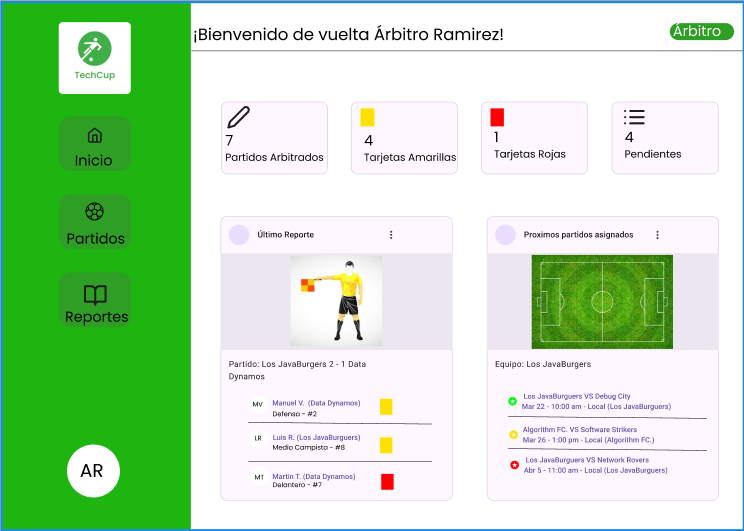
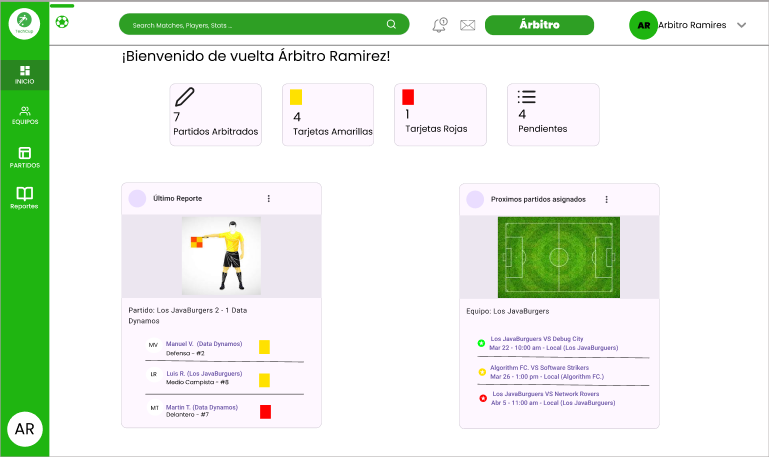
Adicion de pantallas actuales del mockup con su respectiva descripcion por pantalla

diff --git a/README.md b/README.md
@@ -10,11 +10,15 @@ Incluye secciones de noticias, redes sociales y finalistas, además de botones p
 
 ![1.png](Images/1.png)
 
+---
+
 ## Pantalla de Inicio de Sesión:
 Presenta el formulario para acceder al sistema mediante correo y contraseña, con opciones como “Recuérdame”, 
 recuperación de clave y acceso con Google.
 
 ![2.png](Images/2.png)
+
+---
 
 ## Pantalla de Creación de Perfil Deportivo:
 Permite registrar un nuevo perfil completando datos personales, rol, posición, correo, edad y contraseña. Incluye la 
@@ -22,37 +26,47 @@ opción de subir una foto y finalizar el registro con el botón “Crear perfil 
 
 ![3.png](Images/3.png)
 
+---
+
 ## Pantalla de Creación de Equipo (Rol Capitán):
 Permite a los usuarios con rol de capitán crear su equipo ingresando el nombre, seleccionando colores del uniforme y 
 subiendo el escudo. Finaliza con el botón “Continuar” para avanzar en la configuración.
 
 ![4.png](Images/4.png)
 
+---
+
 ## Pantalla de Panel del Capitán:
-Muestra un resumen del rendimiento del equipo, incluyendo partidos ganados, empatados, perdidos y la posición actual. 
-También presenta la información del equipo del capitán y una lista de próximos partidos, junto con un menú lateral para 
-navegar entre las secciones principales.
+Presenta las estadísticas principales del equipo, incluyendo victorias, empates, derrotas y posición. También muestra 
+la información del equipo, los próximos partidos y un menú lateral y superior para una navegación más completa dentro de la plataforma.
 
 ![5.png](Images/5.png)
 
-## Pantalla de Tabla de Posiciones (Capitán):
-Muestra la clasificación actual de todos los equipos con estadísticas como partidos jugados, puntos, goles a favor y en contra. 
-También destaca reconocimientos individuales y de equipo, como mejor jugador, mejor ataque y mejor defensa, junto con el menú 
-lateral de navegación.
+---
+
+## Pantalla de Tabla de Posiciones:
+Muestra la clasificación general del torneo con estadísticas completas por equipo. A la derecha se destacan reconocimientos 
+como mejor jugador, defensa y ataque, mientras el menú lateral y superior permite navegar cómodamente por la plataforma.
 
 ![6.png](Images/6.png)
 
-## Pantalla de Equipos Participantes (Capitán):
-Muestra la lista de equipos inscritos en el torneo TechCup junto con el nombre de cada capitán y el escudo correspondiente.
-Incluye un menú lateral para navegar entre Inicio, Equipos, Tabla y Partidos.
+---
+
+## Pantalla de Equipos Participantes:
+Muestra el listado completo de los equipos inscritos en el torneo TechCup junto con el nombre del capitán y su escudo. 
+Incluye un menú lateral y una barra superior que facilitan la navegación entre las distintas secciones de la plataforma.
 
 ![7.png](Images/7.png)
 
-## Pantalla de Próximos Partidos (Capitán):
-Muestra un calendario para visualizar las fechas del torneo y una lista detallada de los próximos enfrentamientos con horarios, 
-equipos y estadios. Incluye el menú lateral para navegar entre Inicio, Equipos, Tabla y Partidos.
+---
+
+## Pantalla de Jornadas y Próximos Enfrentamientos (Capitán):
+Presenta un calendario interactivo junto al listado de jornadas del torneo, indicando cuáles están finalizadas, en curso o próximas. 
+A la derecha se muestran los enfrentamientos futuros con horarios, equipos y estadios, acompañado del menú lateral y la barra superior de navegación.
 
 ![8.png](Images/8.png)
+
+---
 
 ## Pantalla de Panel del Jugador:
 Muestra el resumen personal del rendimiento del jugador, incluyendo goles, asistencias, tarjetas y partidos jugados. 
@@ -61,16 +75,29 @@ y el menú lateral para navegar entre secciones.
 
 ![9.png](Images/9.png)
 
+---
+
 ## Pantalla de Panel del Árbitro:
-Muestra el resumen de actividad del árbitro, incluyendo partidos arbitrados, tarjetas mostradas y reportes pendientes. 
-También presenta el último informe realizado, los próximos partidos asignados y un menú lateral para navegar entre 
-Inicio, Partidos y Reportes.
+Presenta el resumen de actividad del árbitro, incluyendo partidos arbitrados, tarjetas mostradas y reportes pendientes. 
+También muestra el último informe realizado y los próximos partidos asignados, junto con la navegación lateral y superior.
 
 ![10.png](Images/10.png)
 
-## Pantalla de Reporte en Curso (Árbitro):
-Permite al árbitro registrar los eventos del partido en tiempo real, incluyendo goles, tarjetas y observaciones. 
-Muestra asistencias arbitrales, el marcador actual y ofrece opciones para ver el historial o finalizar y firmar el reporte.
+---
+## Pantalla de Reporte en Curso:
+Permite registrar y visualizar los eventos del partido, mostrando goles, tarjetas y observaciones relevantes. 
+Incluye la información de los asistentes arbitrales y opciones para consultar el historial o cerrar y firmar el reporte del encuentro.
 
 ![11.png](Images/11.png)
+
+---
+
+## Pantalla Principal del Organizador:
+Muestra un panel general con información clave del torneo: próximos partidos, tabla de posiciones, equipos recién unidos y gestión rápida. 
+También incluye accesos para crear nuevos torneos y administrar partidos, junto con un menú lateral y barra superior para navegación.
+
+![12.png](Images/12.png)
+
+
+
 
